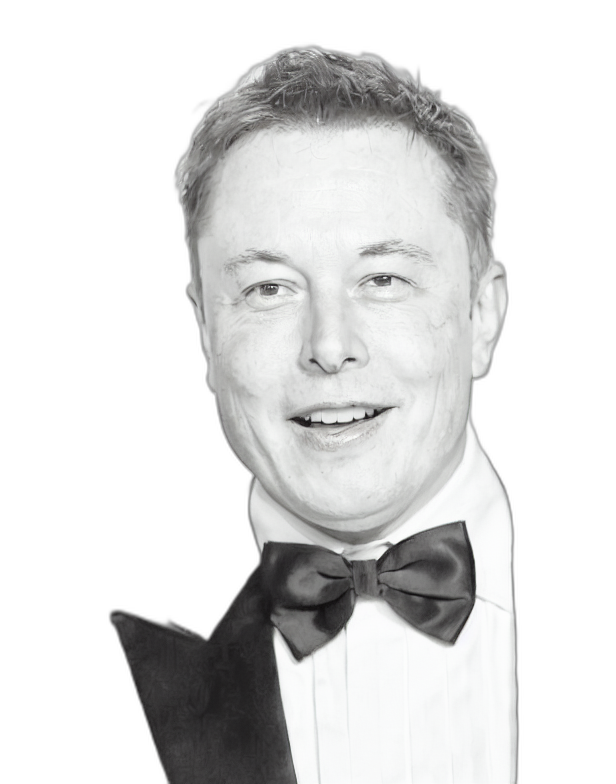
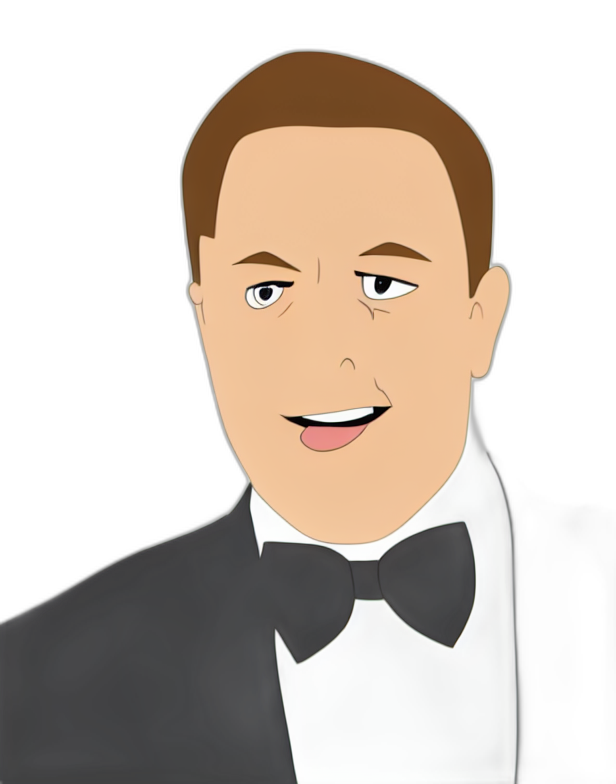
[UPDATE] 모델 한 파이프라인 이미지 출력 3개

diff --git a/product/views.py b/product/views.py
@@ -18,7 +18,6 @@ from moviepy.video.io.VideoFileClip import VideoFileClip
 from django.shortcuts import redirect
 import threading
 
-
 def check(request):
     return HttpResponse("hihi")
 
@@ -334,7 +333,7 @@ def process_painting(rq_id, image, p):
     model_id = "timbrooks/instruct-pix2pix"
     pipe = StableDiffusionInstructPix2PixPipeline.from_pretrained(model_id, torch_dtype=torch.float16).to("cuda")
     prompt = str(p.value)
-    images = pipe(prompt, image=image, num_inference_steps=20, image_guidance_scale=1.5, guidance_scale=7).images
+    images = pipe(prompt, image=image, num_inference_steps=20, image_guidance_scale=1.5, guidance_scale=7, num_images_per_prompt=3).images
     images[0].save("paintingStyle.png")
 
     input_path = 'paintingStyle.png'
@@ -359,12 +358,16 @@ def process_painting(rq_id, image, p):
     print("save success")
 
 
+
 def style_model_async(request, rq_id, img_url):
     from multiprocessing import Process
     class Painting(Enum):
         gogh = "gogh painting style"
         sketch = "sketch"
         cartoon = "cartoon style"
+
+    model_id = "timbrooks/instruct-pix2pix"
+    pipe = StableDiffusionInstructPix2PixPipeline.from_pretrained(model_id, torch_dtype=torch.float16, safety_cheker=None).to("cuda")
 
     url = "https://search.pstatic.net/sunny/?src=https%3A%2F%2Fmusicimage.xboxlive.com%2Fcatalog%2Fvideo.contributor.c41c6500-0200-11db-89ca-0019b92a3933%2Fimage%3Flocale%3Den-us%26target%3Dcircle&type=sc960_832"
 
@@ -377,11 +380,55 @@ def style_model_async(request, rq_id, img_url):
     image = download_image(url)
 
     for p in Painting:
-        process_thread = threading.Thread(target=process_painting, args=(rq_id, image, p))
-        process_thread.start()
-        # process_thread = Process(target=process_painting, args=(rq_id, image, p))
-        # process_thread.start()
-        print("process_thread start")
+        prompt = str(p.value)
+        images = pipe(prompt, image=image, num_inference_steps=20, image_guidance_scale=1.5,
+                      guidance_scale=7, num_images_per_prompt=3).images
+        images[0].save("paintingStyle_1.png")
+        images[1].save("paintingStyle_2.png")
+        images[2].save("paintingStyle_3.png")
+
+        t_name = p.name
+
+        for i in range(3):
+            # image = images[i]
+            # if pipe.nsfw_content_detected(image):
+            #     img = open("nsfw.png", "rb")
+            #     img = base64.b64encode(img.read())
+            #     imgUrl = "13.114.204.13:8000/showImg/" + rq_id + "/" + t_name + "/" + str(i+1)
+            #
+            #     painting = asynctest(requestId=rq_id, tagName=t_name, tagUrl=url, img=img, setNum=i+1)
+            #     painting.save()
+            #     print("nsfw!!!")
+            #     continue
+            safety_checker.
+
+            input_path = 'paintingStyle_{}.png'.format(i+1)
+            output_path = 'outStyle.png'
+
+            print("not nsfw \t{}".format(input_path))
+
+            input = Image.open(input_path)
+            output = remove(input)
+            output.save(output_path)
+
+            img = open("outStyle.png", "rb")
+
+            # t_name = p.name
+            img = base64.b64encode(img.read())
+            # url = "localhost:8000/showImg/" + rq_id + "/" + t_name
+            # url = "43.201.219.33:8000/showImg/" + rq_id + "/" + t_name
+            # imgUrl = "13.114.204.13:8000/showImg/" + rq_id + "/" + t_name + "/" + str(i+1)
+            imgUrl = "localhost:8000/showImg/" + rq_id + "/" + t_name + "/" + str(i + 1)
+
+            painting = asynctest(requestId=rq_id, tagName=t_name, tagUrl=imgUrl, img=img, setNum=i+1)
+            painting.save()
+
+
+    # get_url = "http://43.201.219.33:8000/api/picture/{}".format(rq_id)
+    # response = requests.get(get_url)
+    # return response
+    print("save success")
+
     return HttpResponse("async")
 
 
@@ -393,3 +440,22 @@ def style_async(request, rq_id, img_url):
     # process_thread.start()
 
     return HttpResponse("success")
+
+def show_test(request, rq_id, t_name, s_num):
+    styles = asynctest.objects.filter(requestId=rq_id, tagName=t_name, setNum=int(s_num)).values("img")
+    if styles.exists():
+        base_string = styles.first()['img']
+        img = Image.open(BytesIO(base64.b64decode(base_string)))
+
+        if img.format == "JPEG":
+            c_type = "image/jpeg"
+        elif img.format == "PNG":
+            c_type = "image/png"
+        else:
+            return HttpResponseNotFound("Unsupported image foramt")
+
+        response = HttpResponse(content_type=c_type)
+        img.save(response, format=img.format)
+        return response
+    else:
+        return HttpResponseNotFound("Image not found")

diff --git a/modelImport/urls.py b/modelImport/urls.py
@@ -39,4 +39,5 @@ urlpatterns = [
 
     path("test/", test_reqeust),
     path("async/<str:rq_id>/<str:img_url>", style_async),
+    path("showImg/<str:rq_id>/<str:t_name>/<str:s_num>", show_test),
 ]
